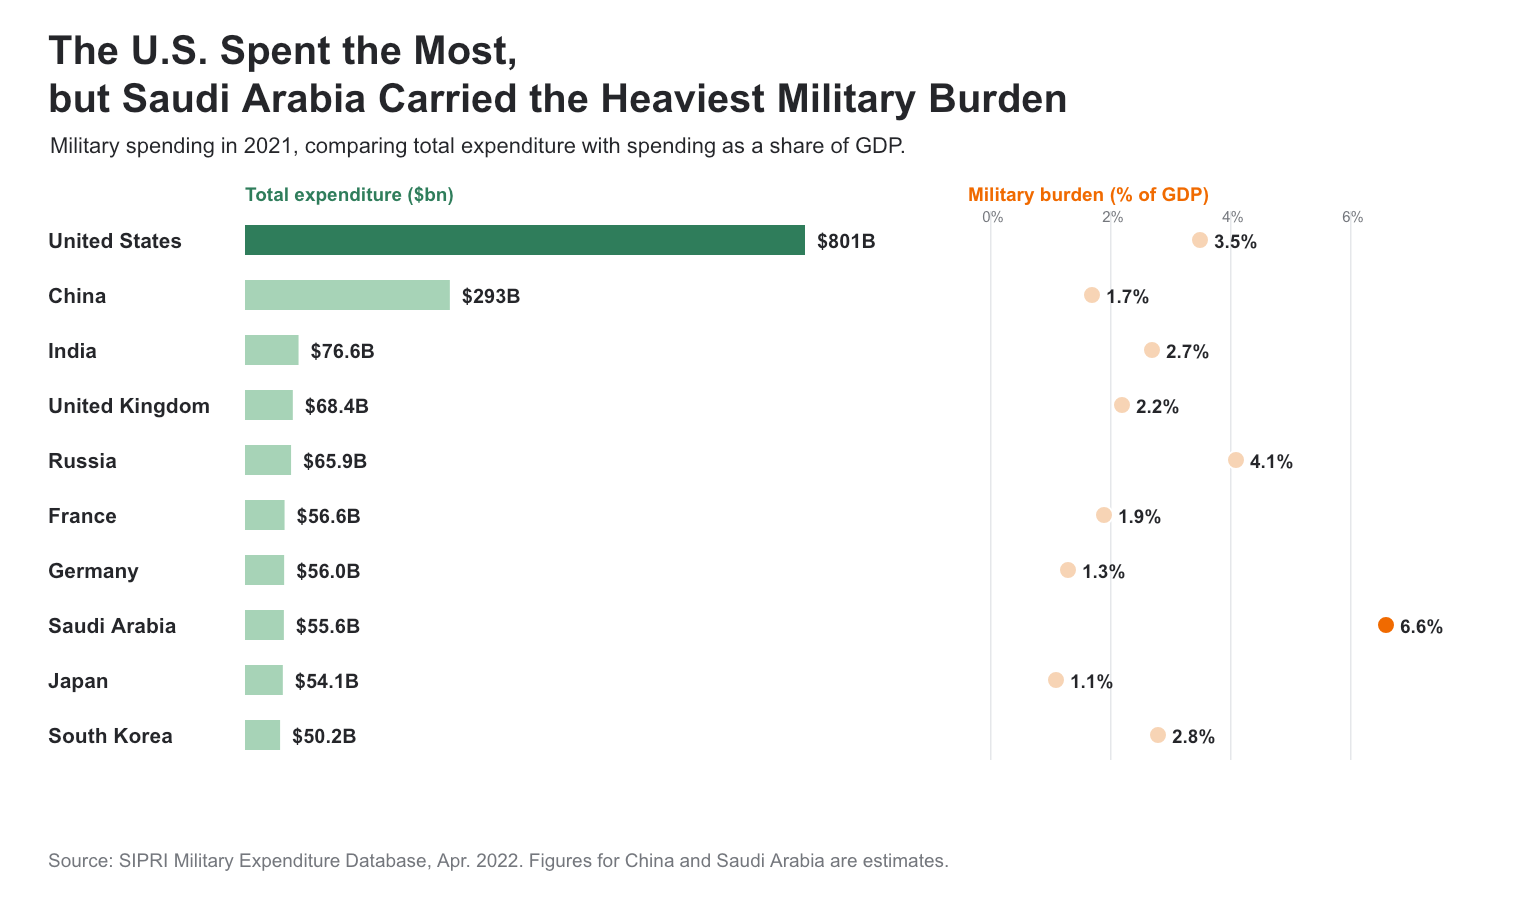
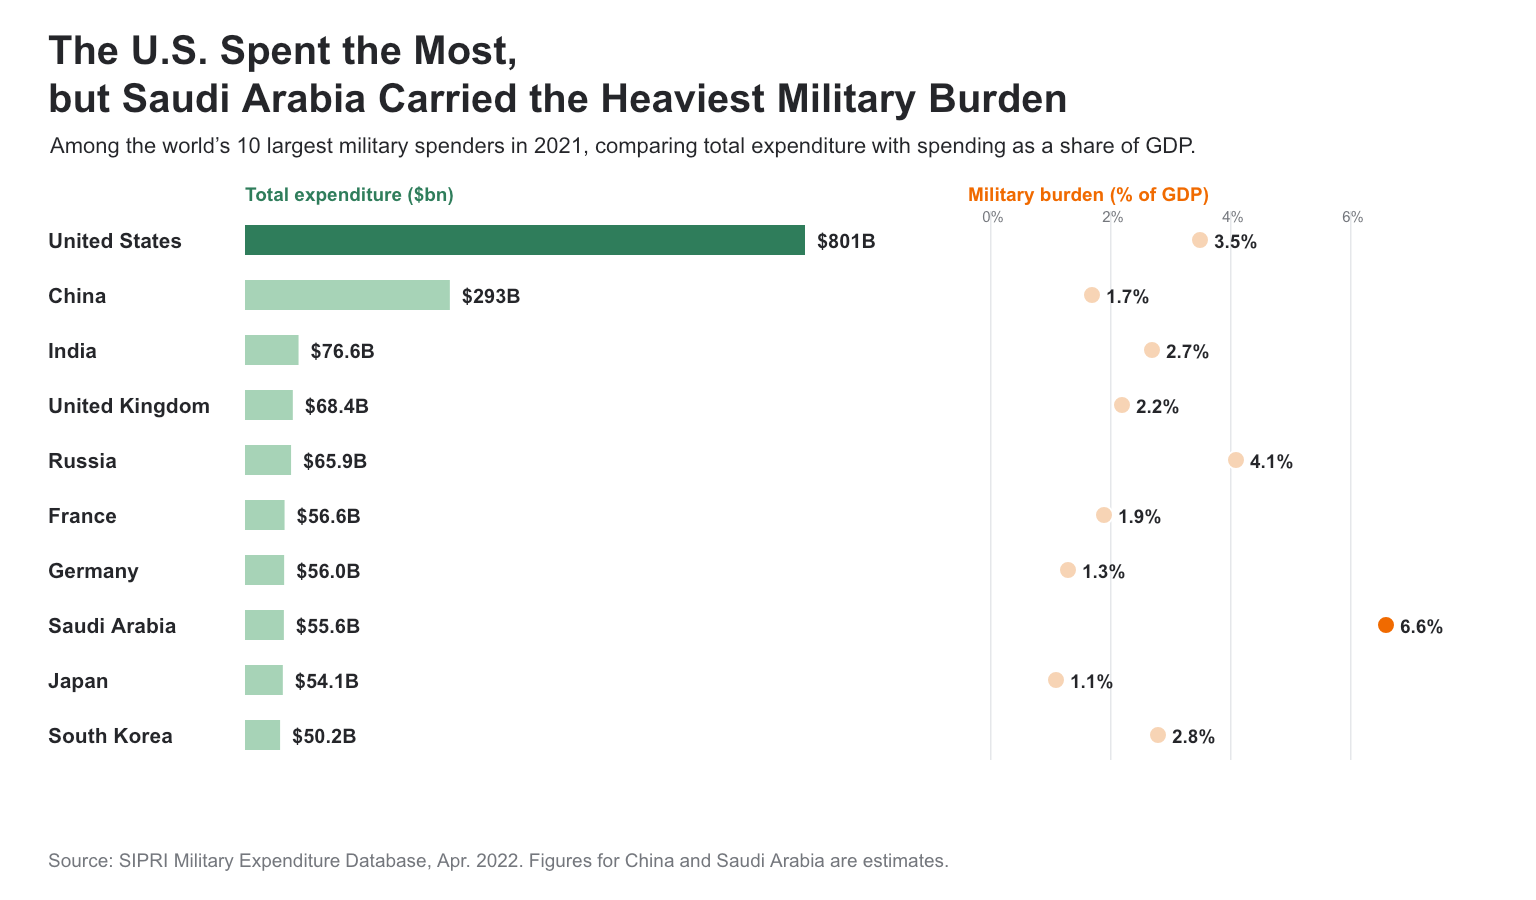
Update final visualization

Changed region(s): [[0.0312, 0.1556, 0.7812, 0.1867]]

diff --git a/critique-by-design.md b/critique-by-design.md
@@ -70,8 +70,6 @@ I increased the label size, replaced the condensed typeface, highlighted the mai
 
 ## Step five: Build the solution
 
-The final chart compares the world's ten largest military spenders in 2021. The headline's comparison of Saudi Arabia's military burden applies only to these ten countries.
-
 ![Final redesign comparing total military expenditure and military spending as a share of GDP](military-spending-final.png)
 
 *Final redesign using the 2021 SIPRI data. China and Saudi Arabia are SIPRI estimates.*
